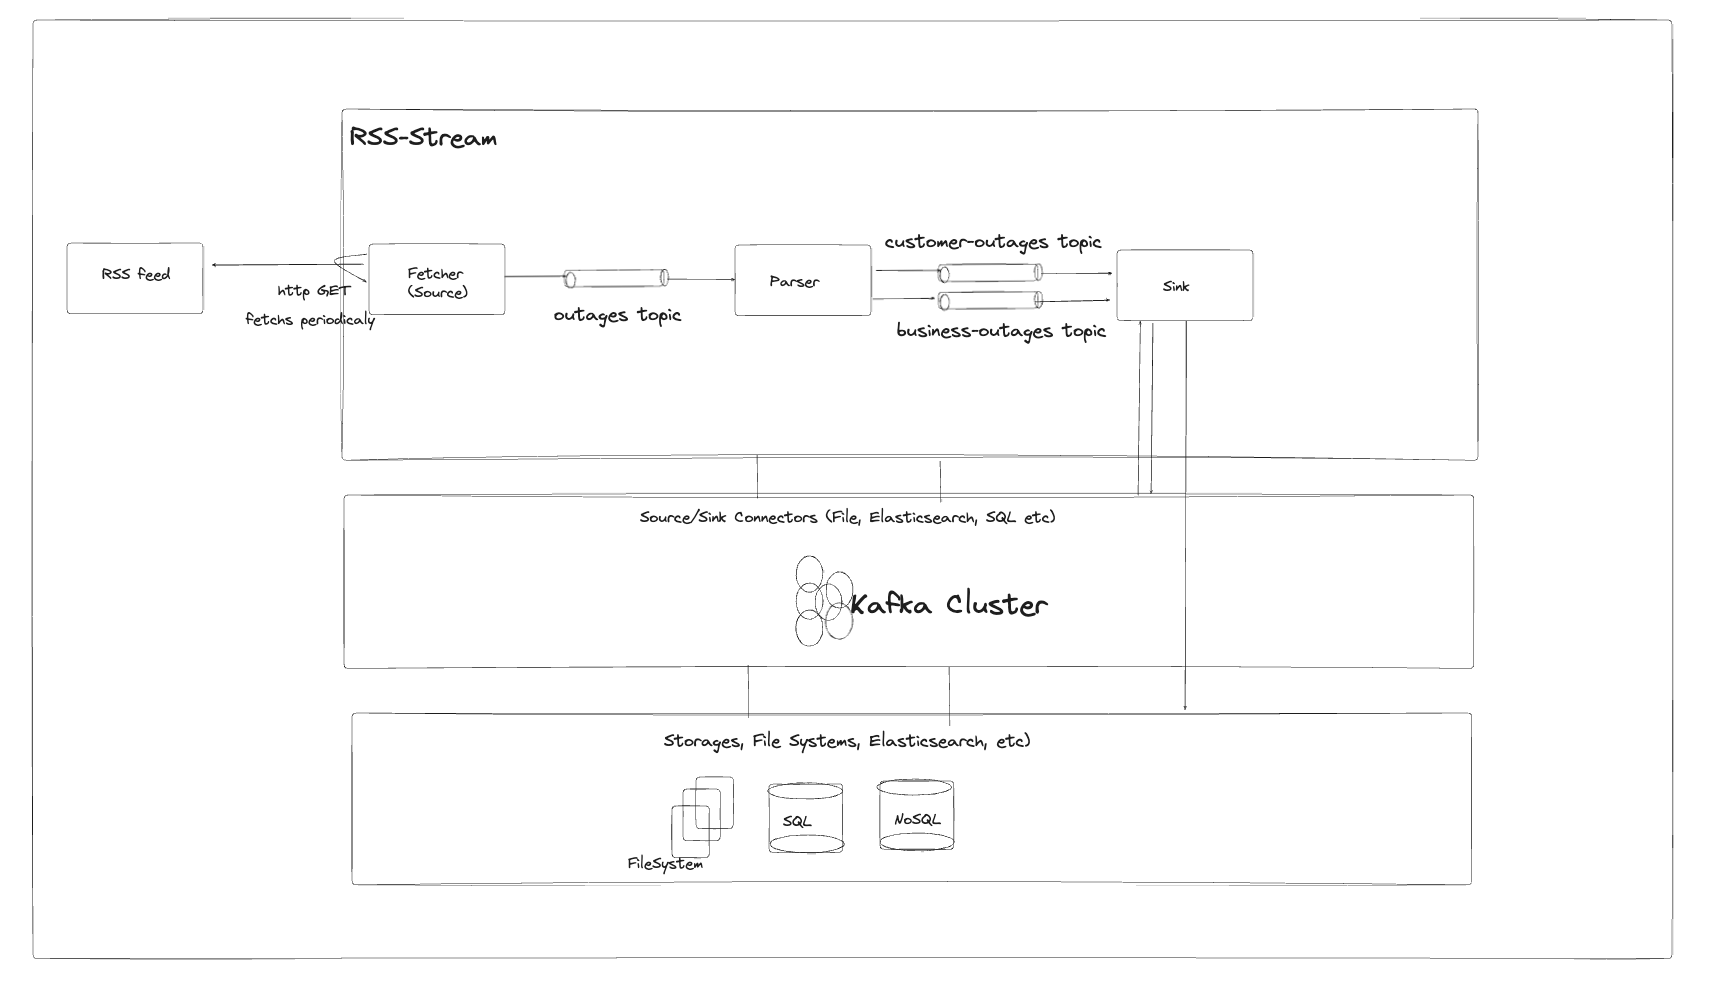
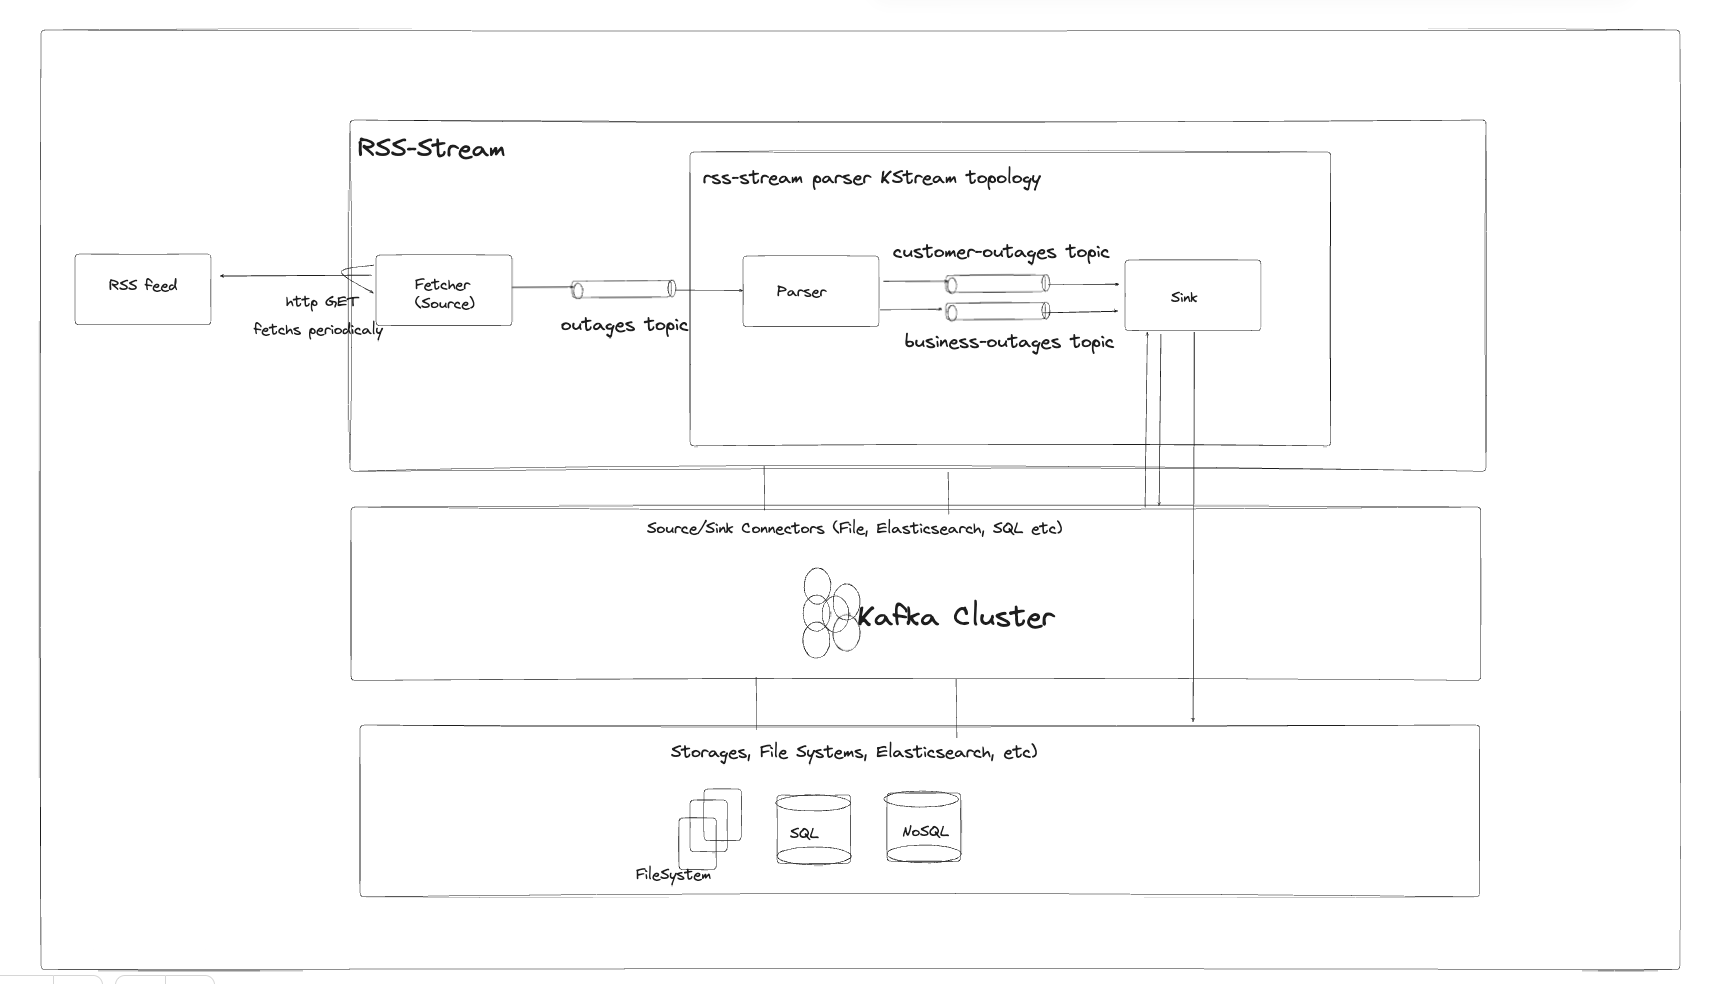
Update README.md

diff --git a/README.md b/README.md
@@ -1,9 +1,11 @@
 # Data streaming team KPN
+
 # RSS parser programming challenge
 
 ## Welcome
 
-Dear Candidate - first of all thank you for participating and accepting the challenge. We appreciate your efforts and hope to soon meet you in person.
+Dear Candidate - first of all thank you for participating and accepting the challenge. We appreciate your efforts and hope to soon
+meet you in person.
 
 ## General rules
 
@@ -11,11 +13,13 @@ There are not many rules, the few are there to provide a light framework and to 
 Please observe the following:
 
 - The solution will need to be implemented in the Java language (11 or later) or Scala (2.12 or later)
-- Please be honest to us and to yourself and do not spend more than 8 hours of work on this project including research and development
+- Please be honest to us and to yourself and do not spend more than 8 hours of work on this project including research and
+  development
 - You are free to use any Java and/or Scala libraries
 - You are free to structure the project as you like
 - You can choose your build/project management system, please provide build instructions in a separate text file
-- Please provide a small description of your solution with possible performance upgrades that could be added in the future or pitfalls of the current solution
+- Please provide a small description of your solution with possible performance upgrades that could be added in the future or
+  pitfalls of the current solution
 - Bonus points can be earned by
   - using a data engineering related solution (small data processing pipeline)
   - using Object Oriented design patterns and abstraction and/or a Functional approach
@@ -25,18 +29,25 @@ Please observe the following:
 
 ## The task at hand
 
-The challenge is to parse the provided legacy RSS feed and generate two JSON files that can be compared to the reference JSON files provided in the project. The RSS feed is a list of planned and unplanned outages that is affecting the company's networks. The solution must be able to handle feeds of any size, including unbounded.
-Outages.xml is the feed itself - it contains test data that needs to be processed and separated out into a customer outages and business outages JSON file. The two included JSON files are for reference/test - so please don't overwrite them. You can use them to compare against your own generated JSON files. The language of the RSS file is Dutch, but reading it should not pose a problem as the XML structure itself is in English. It is a real world example therefore a realistic programming situation at our company.
+The challenge is to parse the provided legacy RSS feed and generate two JSON files that can be compared to the reference JSON
+files provided in the project. The RSS feed is a list of planned and unplanned outages that is affecting the company's networks.
+The solution must be able to handle feeds of any size, including unbounded.
+Outages.xml is the feed itself - it contains test data that needs to be processed and separated out into a customer outages and
+business outages JSON file. The two included JSON files are for reference/test - so please don't overwrite them. You can use them
+to compare against your own generated JSON files. The language of the RSS file is Dutch, but reading it should not pose a problem
+as the XML structure itself is in English. It is a real world example therefore a realistic programming situation at our company.
 
 ## The logic that needs to be implemented for a successful conversion:
 
 - If the value of the tag <james:locations> contains either ZMST or ZMOH the outage item will be in the business_outages.json
-- The <description> tag contains the beginning (Starttijd:) and the end (Eindtijd:) of the outage - you will need to parse those out of the field
-- If either the beginning (Starttijd:) or the end (Eindtijd:) is "onbekend" (unknown) then the mapping startDate and/or endDate will need to have the value "Onbekend" in the output JSON
+- The <description> tag contains the beginning (Starttijd:) and the end (Eindtijd:) of the outage - you will need to parse those
+  out of the field
+- If either the beginning (Starttijd:) or the end (Eindtijd:) is "onbekend" (unknown) then the mapping startDate and/or endDate
+  will need to have the value "Onbekend" in the output JSON
 - The status field in the output JSON files will need to conform to the following rules:
-    - If the endDate is in the future or its value is "onbekend", the status field in the JSON should be: "Actueel"
-    - If the startDate is in the future, the status should be: "Gepland"
-    - If the endDate is in the past, the status should be: "Opgelost"
+  - If the endDate is in the future or its value is "onbekend", the status field in the JSON should be: "Actueel"
+  - If the startDate is in the future, the status should be: "Gepland"
+  - If the endDate is in the past, the status should be: "Opgelost"
 
 # Tips
 
@@ -55,6 +66,86 @@ If you have any concerns - related to what is stated above or the programming ch
 
 ## Architecture and Design Choices
 
+An overview of the RSS Parser application, which consists of three modules: RSS Simulator, Fetcher, and
+Parser. The application utilizes KafkaStreams, Docker, Spring Boot, and Rome library for RSS parsing. Each module serves a
+specific purpose in the overall workflow.
+
 ![SystemDesign.png](docs%2FSystemDesign.png)
 
+### Modules
+
+- **RSS Simulator**: This module acts as a web server and simulates a static RSS XML file. It exposes an HTTP GET endpoint that
+  allows you to retrieve the simulated RSS feed. It is responsible for serving the XML file used by the Fetcher module.
+
+- **Fetcher**: The Fetcher module periodically fetches the RSS feed from the RSS Simulator. It retrieves the XML file, converts it
+  into individual items using the Rome library, and publishes each item to the "outages" topic in Kafka. The Fetcher ensures a
+  continuous stream of RSS items for further processing.
+
+- **Parser**: The Parser module is the core component of the application and is implemented as a KafkaStreams application. It
+  consumes the "outages" topic, processes the incoming RSS items, and performs several operations on the data. The Parser module
+  follows
+  the streaming topology graph that is provided below to split the stream into two branches based on the outage type. It then
+  sinks the data
+  for
+  each branch into separate topics, namely "business-outages" and "customer-outages." These topics can be used for further
+  analysis,querying or new streaming topologies.
+
+  The Parser module also includes additional sub-topologies for global stores, as mentioned in the graph below. These
+  sub-topologies
+  are responsible for collecting outages data and storing it in GlobalPersistentKeyValue stores based on RockDB. The data is
+  stored in
+  two key-value stores,
+  one for business outages and the other for customer outages. These stores can be used for further analysis or querying.
+  Furthermore, the Parser module includes a component that periodically flushes the key-value data from the KafkaStreams stores
+  into JSON files. Specifically, it generates two JSON files: <mark>customer_outages.json</mark> and <mark>
+  business_outages.json</mark>. These files contain
+  the respective data from the key-value stores and can be used for external processing or reporting.
+
 ![KStreamsTopologyGraph.png](docs%2FKStreamsTopologyGraph.png)
+
+## Language and Framework
+
+The RSS Parser application utilizes the following technologies:
+
+- **KafkaStreams**: A powerful library for building stream processing applications using Apache Kafka.
+- **Docker**: A containerization platform used to package the application and its dependencies into containers.
+- **Spring Boot**: A Java framework that simplifies the development of standalone, production-grade applications.
+- **Rome**: A Java library for parsing, generating, and manipulating RSS and Atom feeds.
+
+## How to Run the Application
+
+To run the application, please follow these steps:
+
+1. Clone the repository and ensure that Docker is installed and running on your machine.
+2. Navigate to the scripts folder in project directory by executing the following command in your terminal or command
+   prompt:
+
+```bash
+cd scripts
+```
+
+3. Run the following script to start the application using Docker Compose:
+
+```bash
+sh start.sh
+```
+
+4. Run the following script to down the application using Docker Down:
+
+```bash
+sh stop.sh
+```
+
+## Testing
+
+```bash
+cd scripts
+```
+
+```bash
+sh test.sh
+```
+
+## Kafka UI
+
+Monitoring for Kafka please visit url http://localhost:8084/topics
